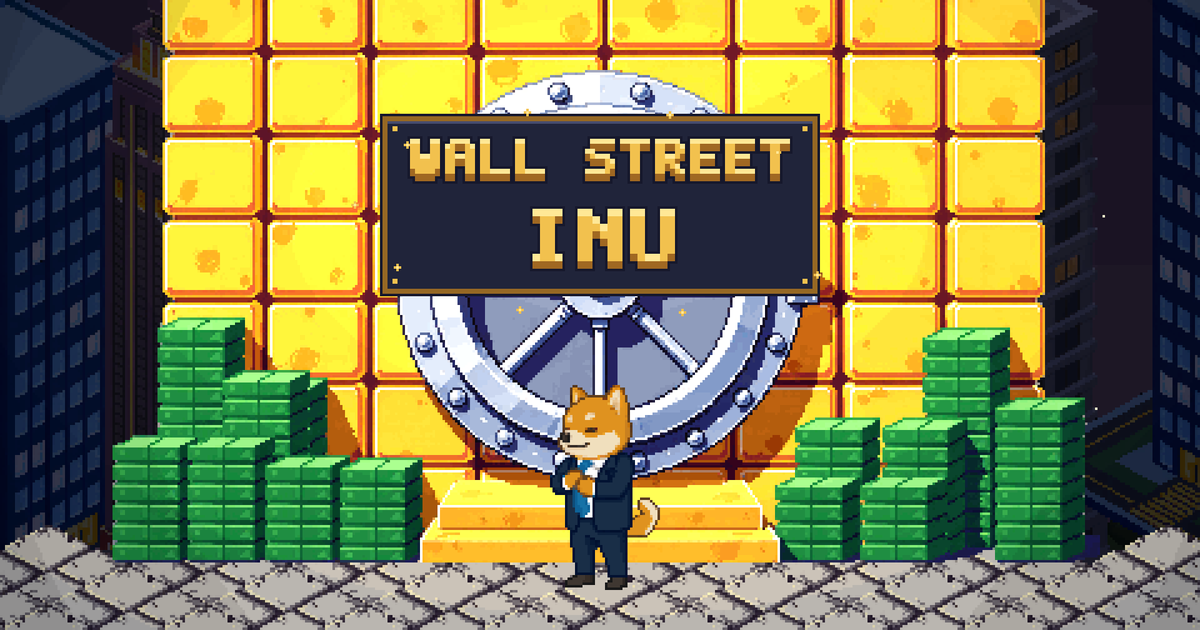
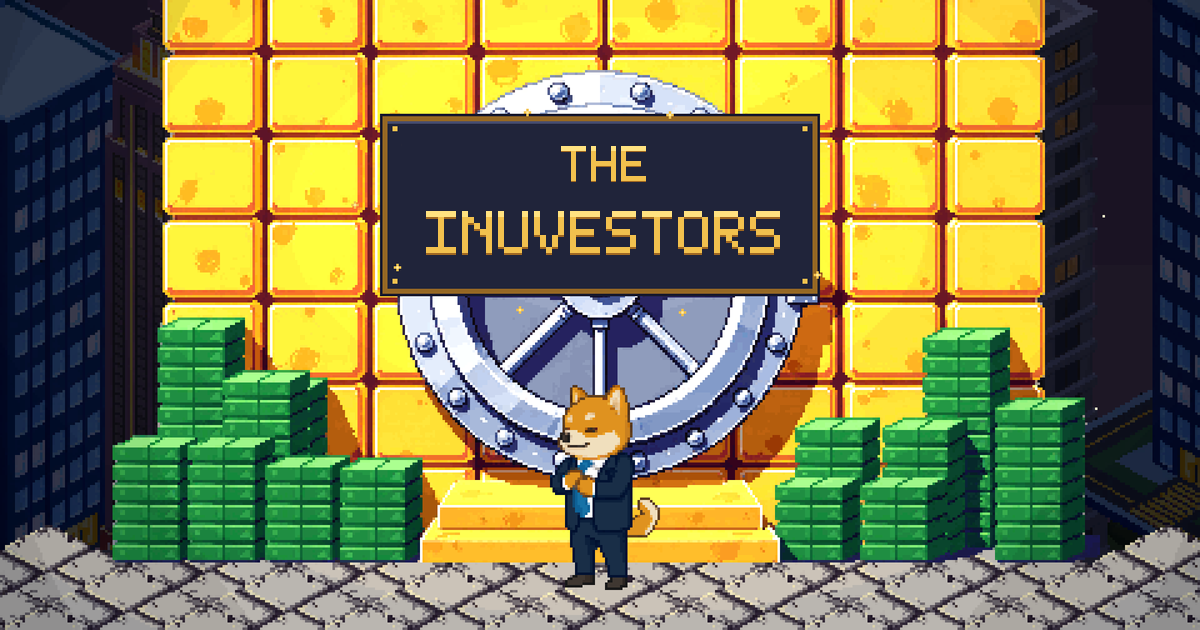
Rebrand: The Inuvestors, ticker INUVESTOR (name change only)

Changed region(s): [[0.3392, 0.3317, 0.6475, 0.4524], [0.3392, 0.2111, 0.6783, 0.3016]]

diff --git a/apps/pixel-site/src/main.ts b/apps/pixel-site/src/main.ts
@@ -1,4 +1,4 @@
-// WALL STREET INU pixel site: an idle game at night. The company grows with the SOL claimed, from a garage startup
+// THE INUVESTORS pixel site: an idle game at night. The company grows with the SOL claimed, from a garage startup
 // to Wall Street (floor/plan.ts, floor/growth.ts, floor/stage-source.ts), and its rooms, desks and landmarks with the
 // rats hired. Rats are hired by creator fees, walk in from the subway, sit at
 // their stock's desks and type, and wander off for coffee. The data comes from the public API (CONTRACT.md), or
@@ -124,7 +124,7 @@ function buildLine(e: GrowthEvent): { tag: string; text: string } {
 }
 
 async function boot(): Promise<Site> {
-  setStatus('WALL STREET INU: loading the building...');
+  setStatus('THE INUVESTORS: loading the building...');
   const app = new Application();
   await app.init({
     resizeTo: window,
@@ -173,7 +173,7 @@ async function boot(): Promise<Site> {
   // (mount() also picks the sky for the stage)
   let rats = new RatSystem(atlas, plan, growth, world.main, world.blocked, world.line);
   const effects = new Effects();
-  // the Vault: the money pile in the middle of the building shows the Wall Street Inu portfolio (?vault=USD pins a value)
+  // the Vault: the money pile in the middle of the building shows the Inuvestors portfolio (?vault=USD pins a value)
   const vault = new VaultView(atlas, world.vault);
   const VAULT_PIN = new URLSearchParams(location.search).get('vault');
   const PNL_PIN = new URLSearchParams(location.search).get('vaultpnl');
@@ -303,7 +303,7 @@ async function boot(): Promise<Site> {
   };
   const vaultReveal = (stage: number): Reveal => ({
     title: `THE VAULT: ${VAULT_STAGES[stage]!.name}`,
-    sub: `${usd(vault.value)} in the Wall Street Inu portfolio`,
+    sub: `${usd(vault.value)} in the Inuvestors portfolio`,
     kicker: 'VAULT UPGRADE',
     focus: () => vault.focus(),
   });
@@ -834,7 +834,7 @@ async function boot(): Promise<Site> {
       rebuildAt(n, false, DEBUG_RATS ? undefined : (liveSol * n) / Math.max(1, live));
       const v = composeView();
       camera.centerOn(v.x, v.y, v.zoom);
-      caption.text = `WALL STREET INU  ${n.toLocaleString('en-US')} INUS  ${STAGES[growth.stage]!.name}`;
+      caption.text = `THE INUVESTORS  ${n.toLocaleString('en-US')} INUS  ${STAGES[growth.stage]!.name}`;
       await wait(k === steps - 1 ? 1800 : 260);
     }
     rec.stop();

diff --git a/apps/cli/src/main.ts b/apps/cli/src/main.ts
@@ -1,5 +1,5 @@
 #!/usr/bin/env -S npx tsx
-// WALL STREET INU operator CLI. Every command reads config from the environment (see .env.example).
+// THE INUVESTORS operator CLI. Every command reads config from the environment (see .env.example).
 import { readFileSync } from 'node:fs';
 import { RpcChainReader, RpcTxSender, createConnection } from '@rat/chain';
 import { type AppConfig, NATIVE_SOL_MINT, createLogger, loadConfig, requireConfig, systemClock } from '@rat/core';
@@ -50,7 +50,7 @@ async function readStdin(): Promise<string> {
   return readFileSync(0, 'utf8');
 }
 
-const program = new Command().name('rat').description('WALL STREET INU operator CLI');
+const program = new Command().name('rat').description('THE INUVESTORS operator CLI');
 
 program
   .command('status')
@@ -149,7 +149,7 @@ program
       const log = createLogger({ level: cfg.logLevel });
       const sinks = [logSink(log)];
       if (cfg.telegram.botToken && cfg.telegram.chatId) sinks.push(telegramSink({ botToken: cfg.telegram.botToken, chatId: cfg.telegram.chatId, log, staging: cfg.staging }));
-      await new ThrottledAlerts(fanOut(...sinks), ctx.clock, 0).send('info', 'alert_test', 'test alert from the WALL STREET INU CLI');
+      await new ThrottledAlerts(fanOut(...sinks), ctx.clock, 0).send('info', 'alert_test', 'test alert from the THE INUVESTORS CLI');
       ctx.out(cfg.telegram.botToken ? 'sent to Telegram and the log' : 'TELEGRAM_BOT_TOKEN not set: logged only');
     }),
   );
@@ -291,7 +291,7 @@ program
       );
       const ready = !lines.some((l) => l.status === 'FAIL');
       if (o.json) out(JSON.stringify({ ready, lines }));
-      else printPreflight(lines, out, `WALL STREET INU preflight (${cfg.dryRun ? 'DRY RUN' : 'LIVE'}${o.live ? ', checking for a live start' : ''})`);
+      else printPreflight(lines, out, `THE INUVESTORS preflight (${cfg.dryRun ? 'DRY RUN' : 'LIVE'}${o.live ? ', checking for a live start' : ''})`);
       if (!ready) process.exitCode = 1;
     } finally {
       await handle?.close();

diff --git a/apps/admin/src/dashboard.ts b/apps/admin/src/dashboard.ts
@@ -101,7 +101,7 @@ export function renderDashboard(d: Dashboard, csrf: string, notice: string | nul
     : `<div class="kill off">Kill switch off. The bot is running.</div>`;
   return `<!doctype html>
 <html lang="en"><head><meta charset="utf-8"><meta name="viewport" content="width=device-width, initial-scale=1">
-<meta http-equiv="refresh" content="15"><title>WALL STREET INU admin</title>
+<meta http-equiv="refresh" content="15"><title>THE INUVESTORS admin</title>
 <style>
 :root{--bg:#0f1115;--fg:#e8e8e8;--mute:#9aa0a6;--line:#2a2f3a;--red:#ff4d4d;--green:#35c46a;--amber:#f5b83d}
 body{margin:0;padding:16px;background:var(--bg);color:var(--fg);font:14px/1.45 system-ui,sans-serif}
@@ -115,7 +115,7 @@ form{display:inline-block;margin:6px 12px 6px 0}input[type=text]{background:#1a1
 button{padding:8px 14px;border-radius:4px;border:0;font-weight:700;cursor:pointer}.stop{background:var(--red);color:#fff}.go{background:var(--green);color:#000}
 .grid{display:grid;grid-template-columns:repeat(auto-fit,minmax(160px,1fr));gap:8px}.card{border:1px solid var(--line);border-radius:6px;padding:8px}.card b{display:block;font-size:18px}
 </style></head><body>
-<h1>WALL STREET INU admin <span class="banner">${esc(d.mode)}${d.smoke ? ' + SMOKE' : ''}</span></h1>
+<h1>THE INUVESTORS admin <span class="banner">${esc(d.mode)}${d.smoke ? ' + SMOKE' : ''}</span></h1>
 <div style="color:var(--mute)">Updated ${esc(d.generatedAt)} (refreshes every 15 s)</div>
 ${notice ? `<div class="notice">${esc(notice)}</div>` : ''}
 ${d.workerDown ? '<div class="kill on">WORKER DOWN: no loop has run for over 3 minutes. Claims and hires have stopped. Check the worker on Railway.</div>' : ''}

diff --git a/apps/pixel-site/src/ui/ui.ts b/apps/pixel-site/src/ui/ui.ts
@@ -228,7 +228,7 @@ export class Ui {
       });
     };
     this.ca.append(this.caAddr, this.caCopy);
-    title.append(el('div', 'brand', 'WALL STREET INU'), el('div', 'tagline', 'The dog always fetches. The fund keeps the ball.'), this.ca, this.stageChip, this.tools);
+    title.append(el('div', 'brand', 'THE INUVESTORS'), el('div', 'tagline', 'The dog always fetches. The fund keeps the ball.'), this.ca, this.stageChip, this.tools);
     const grid = el('div', 'stats');
     for (const [key, label] of [
       ['mcap', 'Market cap'],
@@ -576,7 +576,7 @@ export class Ui {
   }
 
   // ------------------------------------------------------------------ the Vault
-  /** The Vault's panel: the Wall Street Inu portfolio in total and by stock, and the wallets of the rats that hold it. */
+  /** The Vault's panel: the Inuvestors portfolio in total and by stock, and the wallets of the rats that hold it. */
   openVault(): void {
     this.vaultCard.hidden = false;
     this.renderVault();
@@ -595,7 +595,7 @@ export class Ui {
     close.onclick = () => this.closeVault();
     const head = el('div', 'card-head');
     const who = el('div', 'card-who');
-    who.append(el('div', 'card-name', 'THE VAULT'), el('div', 'vault-sub', 'the Wall Street Inu portfolio'));
+    who.append(el('div', 'card-name', 'THE VAULT'), el('div', 'vault-sub', 'the Inuvestors portfolio'));
     head.append(who, close);
     const total = el('div', 'vault-total', usd(p.valueUsd));
     const line = el('div', `vault-pnl ${signClass(p.pnlPct)}`, `${pct(p.pnlPct)}  ${usd(p.pnlUsd)} on ${usd(p.costUsd)} paid`);

diff --git a/apps/pixel-site/index.html b/apps/pixel-site/index.html
@@ -3,19 +3,19 @@
   <head>
     <meta charset="utf-8" />
     <meta name="viewport" content="width=device-width, initial-scale=1" />
-    <title>WALL STREET INU</title>
+    <title>THE INUVESTORS</title>
     <meta name="description" content="The dog always fetches. The fund keeps the ball." />
     <link rel="canonical" href="https://wallstreetinu.world/" />
     <meta property="og:type" content="website" />
-    <meta property="og:site_name" content="WALL STREET INU" />
-    <meta property="og:title" content="WALL STREET INU" />
+    <meta property="og:site_name" content="THE INUVESTORS" />
+    <meta property="og:title" content="THE INUVESTORS" />
     <meta property="og:description" content="Every creator fee hires a Shiba Inu that buys and holds a tokenized stock. Watch the company grow, or simulate a whole launch." />
     <meta property="og:url" content="https://wallstreetinu.world/" />
     <meta property="og:image" content="https://wallstreetinu.world/og.png" />
     <meta property="og:image:width" content="1200" />
     <meta property="og:image:height" content="630" />
     <meta name="twitter:card" content="summary_large_image" />
-    <meta name="twitter:title" content="WALL STREET INU" />
+    <meta name="twitter:title" content="THE INUVESTORS" />
     <meta name="twitter:description" content="Every creator fee hires a Shiba Inu that buys and holds a tokenized stock. Watch the company grow, or simulate a whole launch." />
     <meta name="twitter:image" content="https://wallstreetinu.world/og.png" />
   </head>

diff --git a/apps/pixel-site/src/ui/format.test.ts b/apps/pixel-site/src/ui/format.test.ts
@@ -44,7 +44,7 @@ describe('format', () => {
     expect(claimProgress('2026-10-01T18:00:00Z', '2026-10-01T17:00:00Z', now)).toBeNull();
   });
 
-  it('is WALL STREET INU everywhere a viewer can read it (no RAT RACE or WALL STREET RATS left in the site)', () => {
+  it('is THE INUVESTORS everywhere a viewer can read it (no RAT RACE or WALL STREET RATS left in the site)', () => {
     const root = join(__dirname, '..', '..');
     const files: string[] = [join(root, 'index.html')];
     const walk = (dir: string): void => {
@@ -58,8 +58,8 @@ describe('format', () => {
     const hits = files.filter((f) => /rat race|wall street rats|wall st rats|wallstreetrats|\u{1F400}/iu.test(readFileSync(f, 'utf8')));
     expect(hits).toEqual([]);
     const html = readFileSync(join(root, 'index.html'), 'utf8');
-    expect(html).toContain('<title>WALL STREET INU</title>');
-    expect(html).toContain('<meta property="og:title" content="WALL STREET INU" />');
+    expect(html).toContain('<title>THE INUVESTORS</title>');
+    expect(html).toContain('<meta property="og:title" content="THE INUVESTORS" />');
     expect(html).toContain('<meta property="og:url" content="https://wallstreetinu.world/" />');
   });
 

diff --git a/apps/pixel-site/src/sim/panel.ts b/apps/pixel-site/src/sim/panel.ts
@@ -117,7 +117,7 @@ export class SimPanel {
     });
     const speedLabel = el('div', 'sim-label', 'Speed');
     box.append(
-      el('div', 'sim-kicker', 'WALL STREET INU LAUNCH SIMULATOR'),
+      el('div', 'sim-kicker', 'THE INUVESTORS LAUNCH SIMULATOR'),
       el('div', 'sim-lede', 'Watch a whole launch in minutes: the coin goes live, fees come in, every fee hires a Shiba Inu that buys and holds a stock, and the portfolio and the company grow.'),
       el('div', 'sim-label', 'Scenario'),
       pick,
@@ -171,7 +171,7 @@ export class SimPanel {
     const launch = !sim.isLaunched;
     if (launch) {
       sim.launch();
-      this.d.ui.pushLocal([{ tag: 'LAUNCH', text: `WSI is live on pump.fun (simulated, ${SCENARIOS[this.scenarioId()].label} scenario). Creator fees start flowing.` }]);
+      this.d.ui.pushLocal([{ tag: 'LAUNCH', text: `INUVESTOR is live on pump.fun (simulated, ${SCENARIOS[this.scenarioId()].label} scenario). Creator fees start flowing.` }]);
     }
     this.intro.hidden = true;
     this.panel.hidden = false;

diff --git a/apps/pixel-site/src/floor/signs.ts b/apps/pixel-site/src/floor/signs.ts
@@ -169,7 +169,7 @@ export function landmarkSigns(o: SignInput): SignSpot[] {
   if (annex && scene.standing.has('annex')) {
     const g = annexGeometry(annex, stage);
     const t = towerTop(g.fi + g.fp, g.fj + g.fp, g.floors, g.scale);
-    add('annex', 'WALL STREET INU ANNEX', t.x, t.top - 100 * g.scale);
+    add('annex', 'INUVESTORS ANNEX', t.x, t.top - 100 * g.scale);
   }
 
   // the basement gym in its pit
@@ -209,7 +209,7 @@ export function nextFloorWhen(sol: number): string {
 /** Where the company name goes: over the building's back corner, or on tower A's roof once it stands. */
 export function nameSign(o: SignInput): SignSpot {
   const { plan, stage, count } = o;
-  const text = `WALL STREET INU: ${STAGES[stage]!.name}`;
+  const text = `THE INUVESTORS: ${STAGES[stage]!.name}`;
   const ring = plan.rings[stage]!;
   let at = cellToScreen(ring.i0, ring.j0);
   let y = at.y - 70;

diff --git a/apps/pixel-site/src/ui/news.ts b/apps/pixel-site/src/ui/news.ts
@@ -51,7 +51,7 @@ const BY_STAGE: Line[][] = [
   [
     (s) => `MEGACORP SWALLOWS THREE CITY BLOCKS, RESIDENTS OFFERED ${s.topStock} STOCK AND A CHEW TOY`,
     (s) => `THE VAULT NOW HOLDS ${s.fund}. INUS ASKED TO STOP BURYING BONES IN IT`,
-    () => 'CITY RENAMES MAIN AVENUE "WALL STREET INU WAY" AFTER GENEROUS DONATION',
+    () => 'CITY RENAMES MAIN AVENUE "INUVESTOR WAY" AFTER GENEROUS DONATION',
     (s) => `MARKET CAP ${s.mcap}. SMALL BUSINESSES "WELCOME TO APPLY" FOR DESKS`,
     () => 'TRADING FLOOR BARKS AT THE MARKET FOR SIX HOURS. MARKET DOES NOT FETCH',
   ],
@@ -72,7 +72,7 @@ const NO_RATS_YET: Line[] = [
 ];
 
 const ALWAYS: Line[] = [
-  (s) => `WSI ${s.price} . MCAP ${s.mcap} . VAULT ${s.fund}`,
+  (s) => `INUVESTOR ${s.price} . MCAP ${s.mcap} . VAULT ${s.fund}`,
   (s) => `TOP DESK: ${s.topStock} WITH ${n(s.topRats)} INUS`,
 ];
 

diff --git a/apps/pixel-site/src/data/market.test.ts b/apps/pixel-site/src/data/market.test.ts
@@ -8,7 +8,7 @@ const jup = (price: number | null): FetchLike => async (url) =>
     ? { ok: price !== null, json: async () => (price === null ? {} : { [MINT]: { usdPrice: price } }) }
     : { ok: true, json: async () => [{ priceUsd: '0.0000050', marketCap: 5000 }] };
 const state = (mint: string | null, marketCapUsd: number | null): StateResponse =>
-  ({ coin: { mint, symbol: 'WSI', priceUsd: marketCapUsd === null ? null : 0.000004, supply: null, marketCapUsd } }) as unknown as StateResponse;
+  ({ coin: { mint, symbol: 'INUVESTOR', priceUsd: marketCapUsd === null ? null : 0.000004, supply: null, marketCapUsd } }) as unknown as StateResponse;
 
 /** A fetch whose feeds can be switched on and off; counts calls per feed. */
 interface Feeds {

diff --git a/packages/safety/src/alerts.ts b/packages/safety/src/alerts.ts
@@ -29,7 +29,7 @@ export function telegramSink(opts: { botToken: string; chatId: string; log?: Log
       const res = await f(`https://api.telegram.org/bot${opts.botToken}/sendMessage`, {
         method: 'POST',
         headers: { 'content-type': 'application/json' },
-        body: JSON.stringify({ chat_id: opts.chatId, text: `[WSI ${opts.staging ? 'STAGING ' : ''}${ICON[level]} ${level}] ${text}`, disable_web_page_preview: true }),
+        body: JSON.stringify({ chat_id: opts.chatId, text: `[INUVESTOR ${opts.staging ? 'STAGING ' : ''}${ICON[level]} ${level}] ${text}`, disable_web_page_preview: true }),
       });
       if (!res.ok) opts.log?.warn({ status: res.status }, 'telegram alert failed');
     } catch (err) {

diff --git a/apps/api/src/mock/server.ts b/apps/api/src/mock/server.ts
@@ -15,7 +15,7 @@ const app = createApp({ service: mock, clock: systemClock, cacheSec: 1, corsOrig
 
 serve({ fetch: app.fetch, port }, (info) => {
   const base = `http://localhost:${info.port}`;
-  console.log(`WALL STREET INU mock API (live-changing mock data, nothing real) on ${base}`);
+  console.log(`THE INUVESTORS mock API (live-changing mock data, nothing real) on ${base}`);
   console.log(`  ${base}/api/state   ${base}/api/rats   ${base}/api/events?afterId=0   ${base}/health`);
   console.log(`  new rat every 2-6s, prices drift every 1s, claim every 35s, COINx pauses/resumes; speed x${speed}`);
 });
